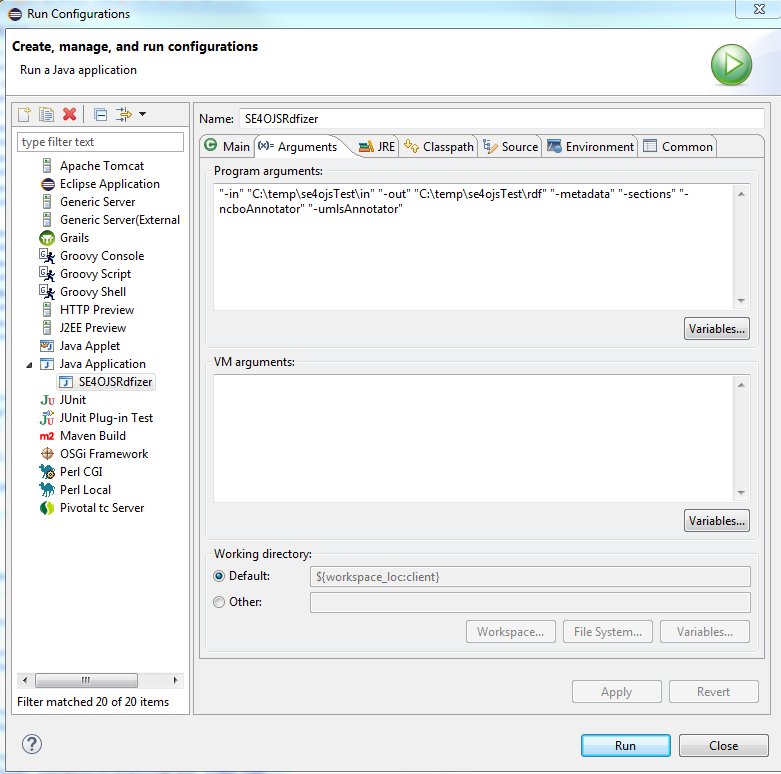
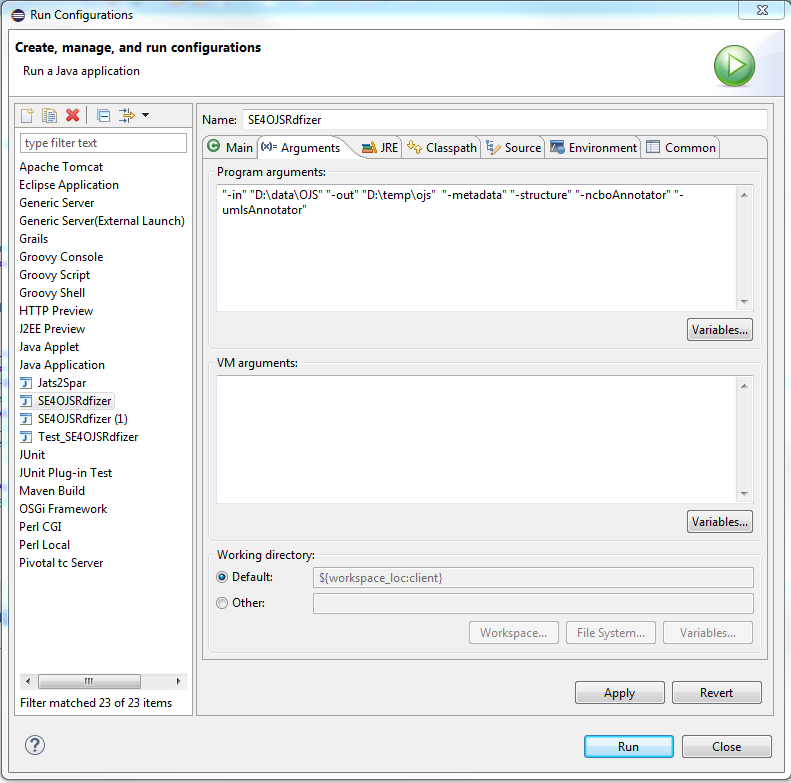
added Readme.md

Changed region(s): [[0.0, 0.0, 1.0, 1.0]]

diff --git a/README.md b/README.md
@@ -1,0 +1,68 @@
+## KOBPSY ##
+An RDF-knowledgebase for scholarly articles in psychology. The RDF representations have been generated from the articles' JATS-XML representations using the SE4OJS tool (see description below). </br>
+
+- Article metadata, such as title, authors, keywords, references etc.
+
+- article text structure, such as sections, paragraphs, paragraphs' textual content and in-text citations have been rdfized and the
+- textual content has been semantically annotated with ontologies from bioportal and the UMLS using the **SE4OJS** tool (see description below). 
+
+A sample of 5 articles and their RDF-representations from KOBPSY is available at: /se4ojs/resources/data/annotation.zip.
+
+## SE4OJS User documentation ##
+### Overview
+The application consists of several modules, rdfizing different aspects of an xml article in JATS- 1.0 format, using a variety of ontologies, especially the [SPAR ontologies](http://sempublishing.sourceforge.net/ "SPAR ontologies") and the [Annotation Ontology](https://code.google.com/p/annotation-ontology/ "Annotation Ontology"). It was inspired by the [Biotéa](http://www.jbiomedsem.com/content/4/S1/S5) project with whom it shares similarities in workflow and output.
+#####Modules
+-	**client-module:** Acts as a controller, steering the  
+workflow. Contains the main class "SE4OJSRdfizer".
+- **jats2Spar-module:** RDFizes the article  metadata. Uses an XSLT-Stylesheet (based on: [*Peroni, S. Lapeyre D.A., and Shotton D. (2012). From Markup to Linked Data: Mapping NISO JATS v1.0 to RDF using the SPAR (Semantic Publishing and Referencing) Ontologies*](http://www.ncbi.nlm.nih.gov/books/NBK100491/)) to transform the xml into rdf.
+ </br> Produces an rdf file in the output directory, containing article metadata representations, e.g. on article identifiers, journal, issue, article title, keywords, article contributors, their affiliations, article references and their authors.
+- **textStructure-module:** RDFizes the textual structure, i.e. sections, paragraph, paragraph text and in-text citations. Produces the in-text citation count for each reference. Outputs a second .rdf-file to the output directory containing this information.
+- **annotation-common-module:** Contains shared classes used by all content-annotation components.
+- **annotation-ncbo-module:** Automatically annotates the textual content of the article with user-defined bioportal ontologies, using the [NCBO annotator web-service](http://data.bioontology.org/documentation#nav_annotator). Creates an annotation context, relating the concept to the text location where it occurs. Keeps track of the frequency of occurrence of each concept. Outputs a third rdf-file containing this information.
+- **annotation-umls-module:** Automatically annotates the textual content of the article with user-defined UMLS ontologies, using the java api of the MetaMap tool. It is a prerequisite to running this module that an accessible MetaMap service is running. Produces the same annotations and output like the annotation-ncbo module.
+
+All rdfization steps are optional. But both annotators depend on the text-structure rdfization step.
+The annotators try to ignore text in other languages than English. This is achieved by checking whether the section or paragraph containing the text has a language attribute-value that specifies another language than English. Once such an attribute-value is encountered, the annotator skips this textual element including all its child-elements.   
+###Project Setup###
+
+
+- Currently, no user interface or packaged binary is offered for download – the sources need to be compiled and the program must run from either command-line or an IDE. 
+- The project consists of several maven modules -> make sure maven is installed on your machine to compile the projects
+- SE4OJS requires Java7
+#####Running SE4OJS
+
+
+- **Main class**. The entry point, i.e. the main method to run the application is se4ojs\sources\client\src\main\java\org\zpid\se4ojs\app\SE4OJSRdfizer.java
+- Possible **commandline-arguments** are:
+
+	-  `“-in” “path/to/dir”`	, *mandatory*. Input directory containing the JATS-xml Files (Version 1.0). The directory only processes .xml files. It may contain other files or nested directories, (e.g. the pdf representations of the articles) which will be ignored. A path to a single file is also possible.
+
+	- `“-out” “path/to/dir”`	, *mandatory*. Output directory for the generated rdf-files
+
+	- `“-metadata”`, *optional*. Rdfizes article-metadata (calls the jats2Spar module). Produces an rdf file in the output dir containing article metadata representations.
+
+	- `“-structure”	`, *optional*;*mandatory if annotators are also specified*. Rdfizes the text structure. Produces an rdf file in the output dir containing article metadata representations, in text citations and citation frequency information for references.
+	- `“-ncboAnnotator”`		Optional; must be used in conjunction with “-structure”
+	
+	- `“-umlsAnnotator”`	MetaMap must be set up and 	Optional; must be used in conjunction with “-structure”
+- **Configuration**
+	</br> The configuration file is located at: </br>
+    *client/src/main/resources/config.properties*
+	- **Article language** (comma-separated list of  ISO 639 2 or character language codes). Articles in other languages are skipped and are not being processed. </br> Example: `languagesIncluded=en,de,fr`
+	- **Base URI** (Base URI for all persistent and non-persistent URIs required for the creation of rdf-resources) </br>
+	Example: `baseUri=http://www.zpid.de/resource`
+
+	- **NCBO annotator**. You need to acquire an API-key in order to access the annotator. </br> *Example*:  ncbo.service.url=http://data.bioontology.org/annotator
+    ncbo.annotator.url=http://bioportal.bioontology.org/annotator/
+    ncbo.apikey=*[your API-key here]*
+ncbo.annotator.ontologies=ONTOAD,NIFSTD,GALEN,SIO,BIOMO,AURA,RADLEX
+	- **UMLS annotator**.  </br> *Example*: umls.annotator.ontologies=MSH,PSY,NCI,HL7V3.0,RCD,LNC,CSP,ICNP
+
+### Sample Setup for Eclipse
+- Import the maven projects into Eclipse (first install the projects with maven from the commandline (`mvn clean:install`); run maven's eclipse plugin  `mvn eclipse:eclipse`, then import the projects into the IDE; In Eclipse Luna: `File->Import->Existing Maven projects`
+- Create an Eclipse-Run-Configuration:
+##### Sample Eclipse Run-configuration (includes all possible rdfization steps).
+![img1](https://github.com/isabelbarth/kobpsy/tree/master/se4ojs/resources/doc/se4ojsRunConfig1)
+![img2](https://github.com/isabelbarth/kobpsy/tree/master/se4ojs/resources/doc/se4ojsRunConfig2)
+
+
